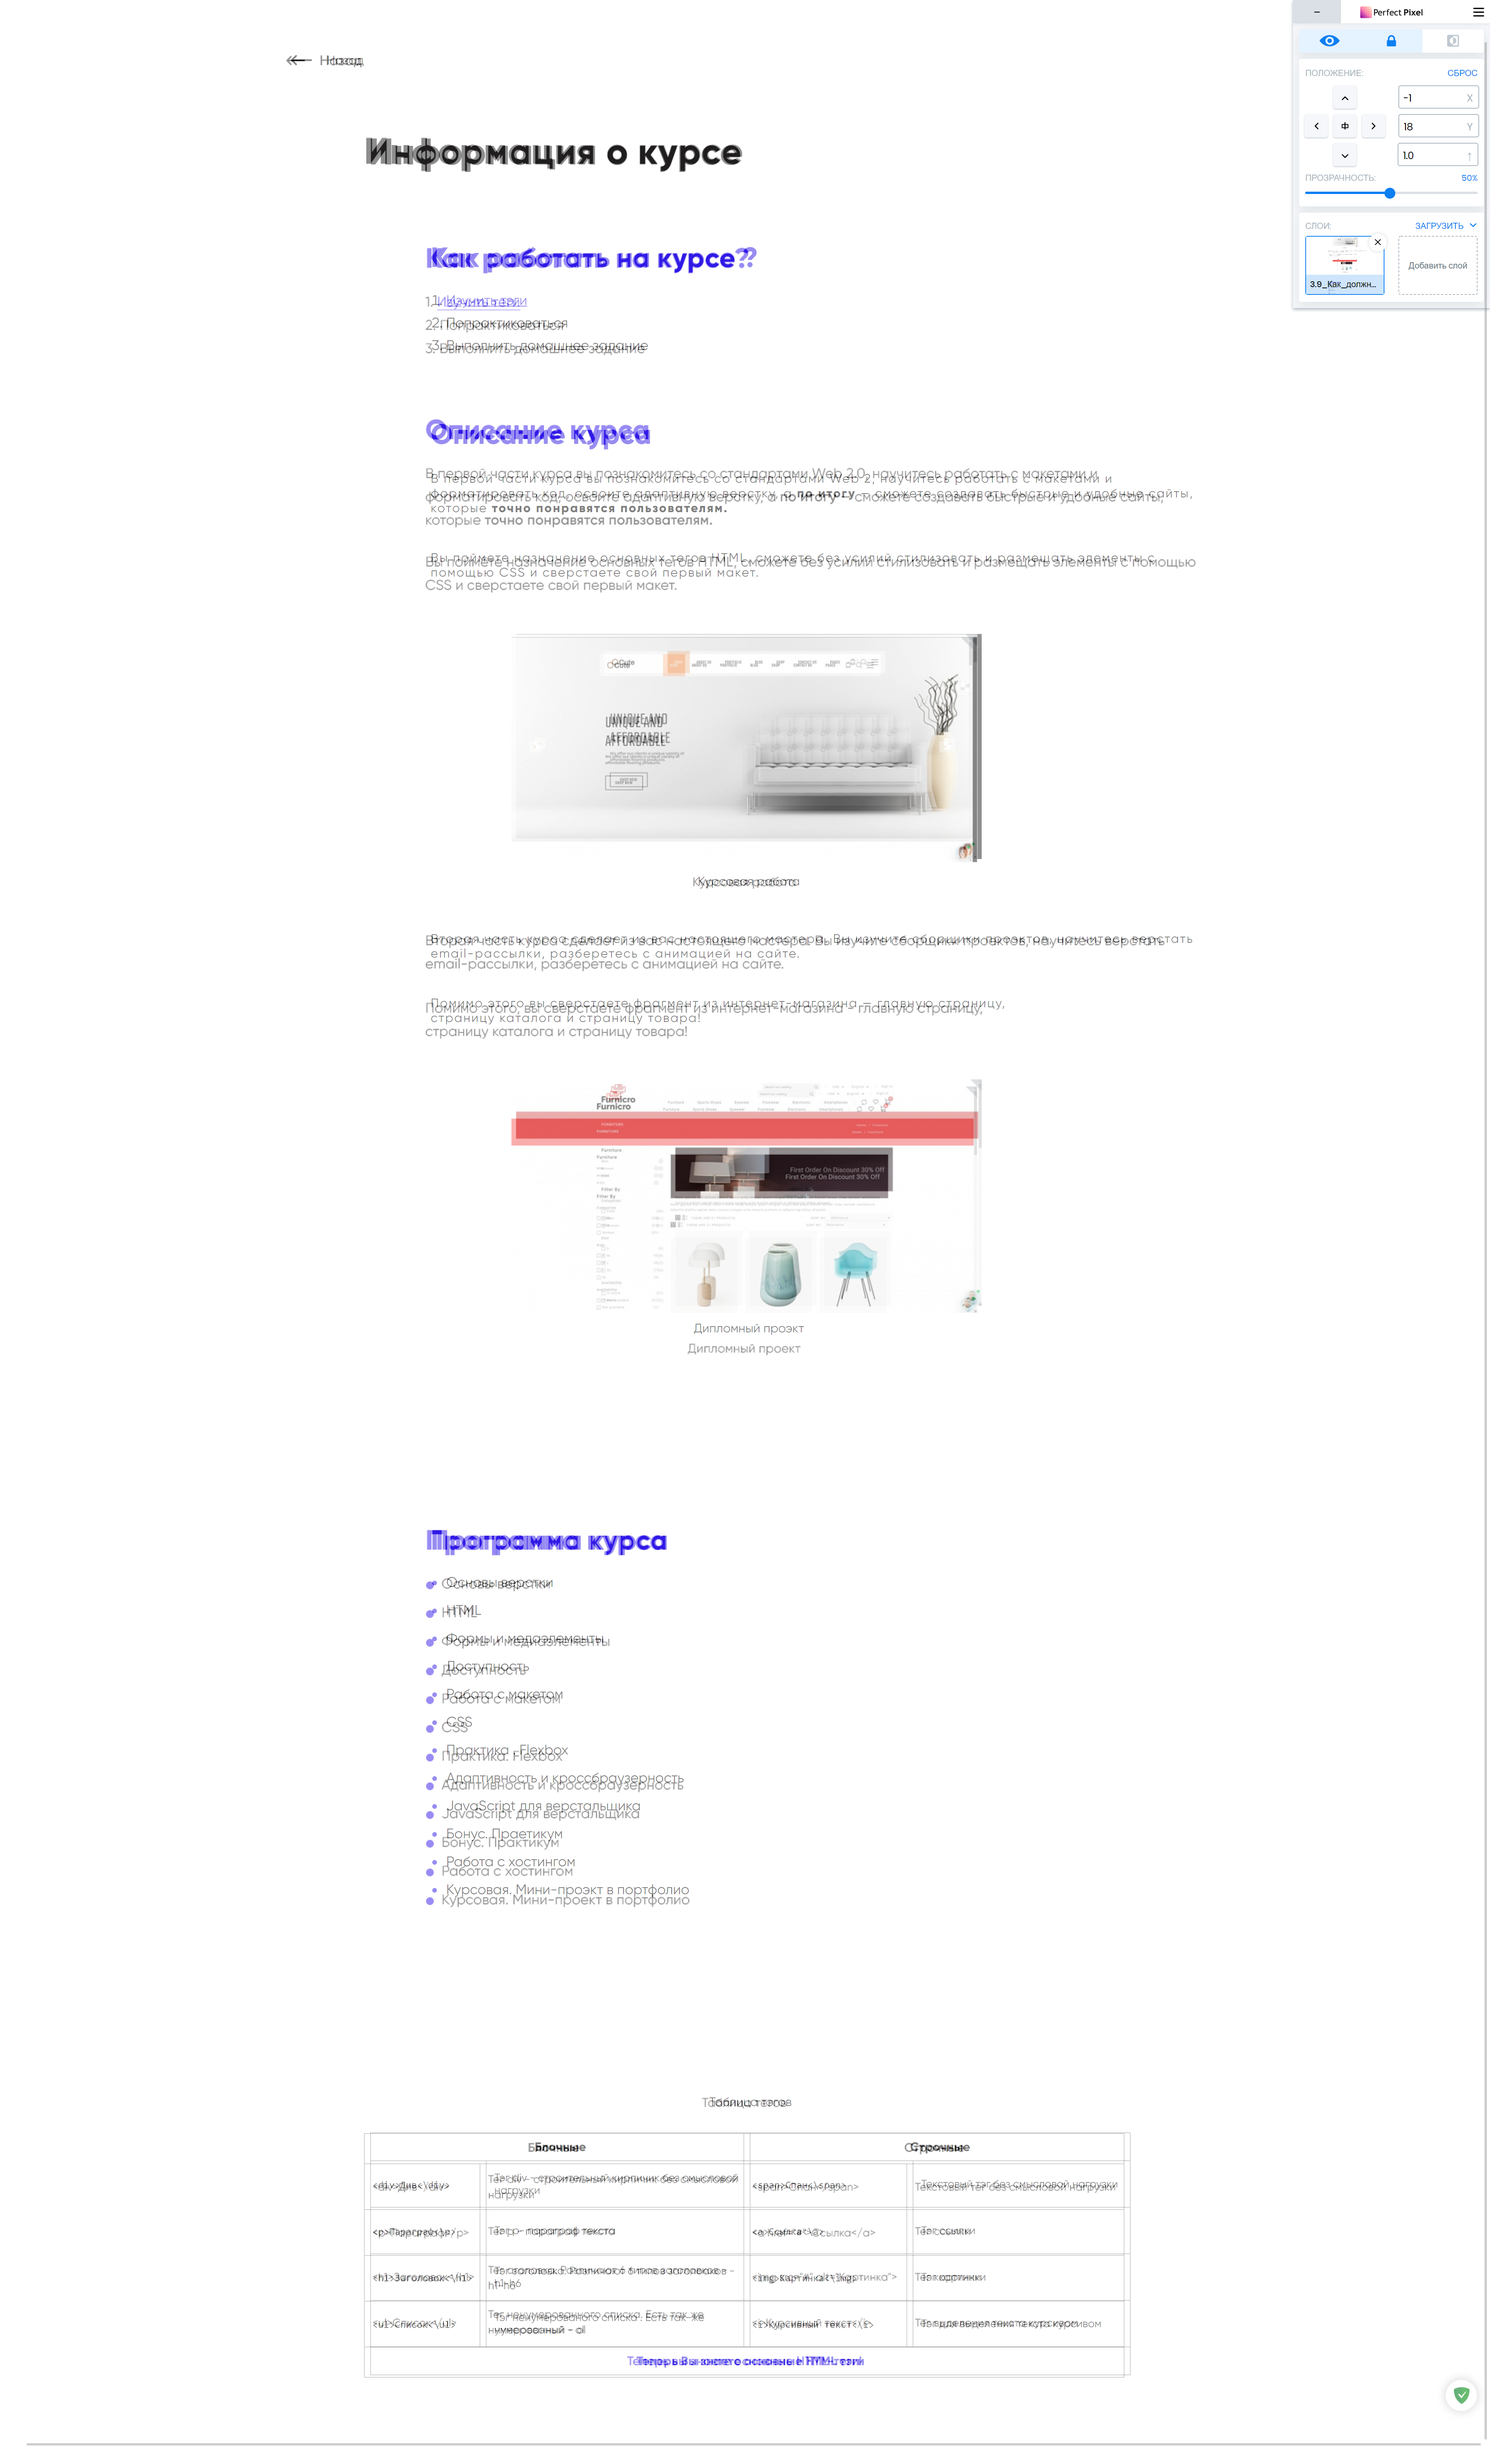
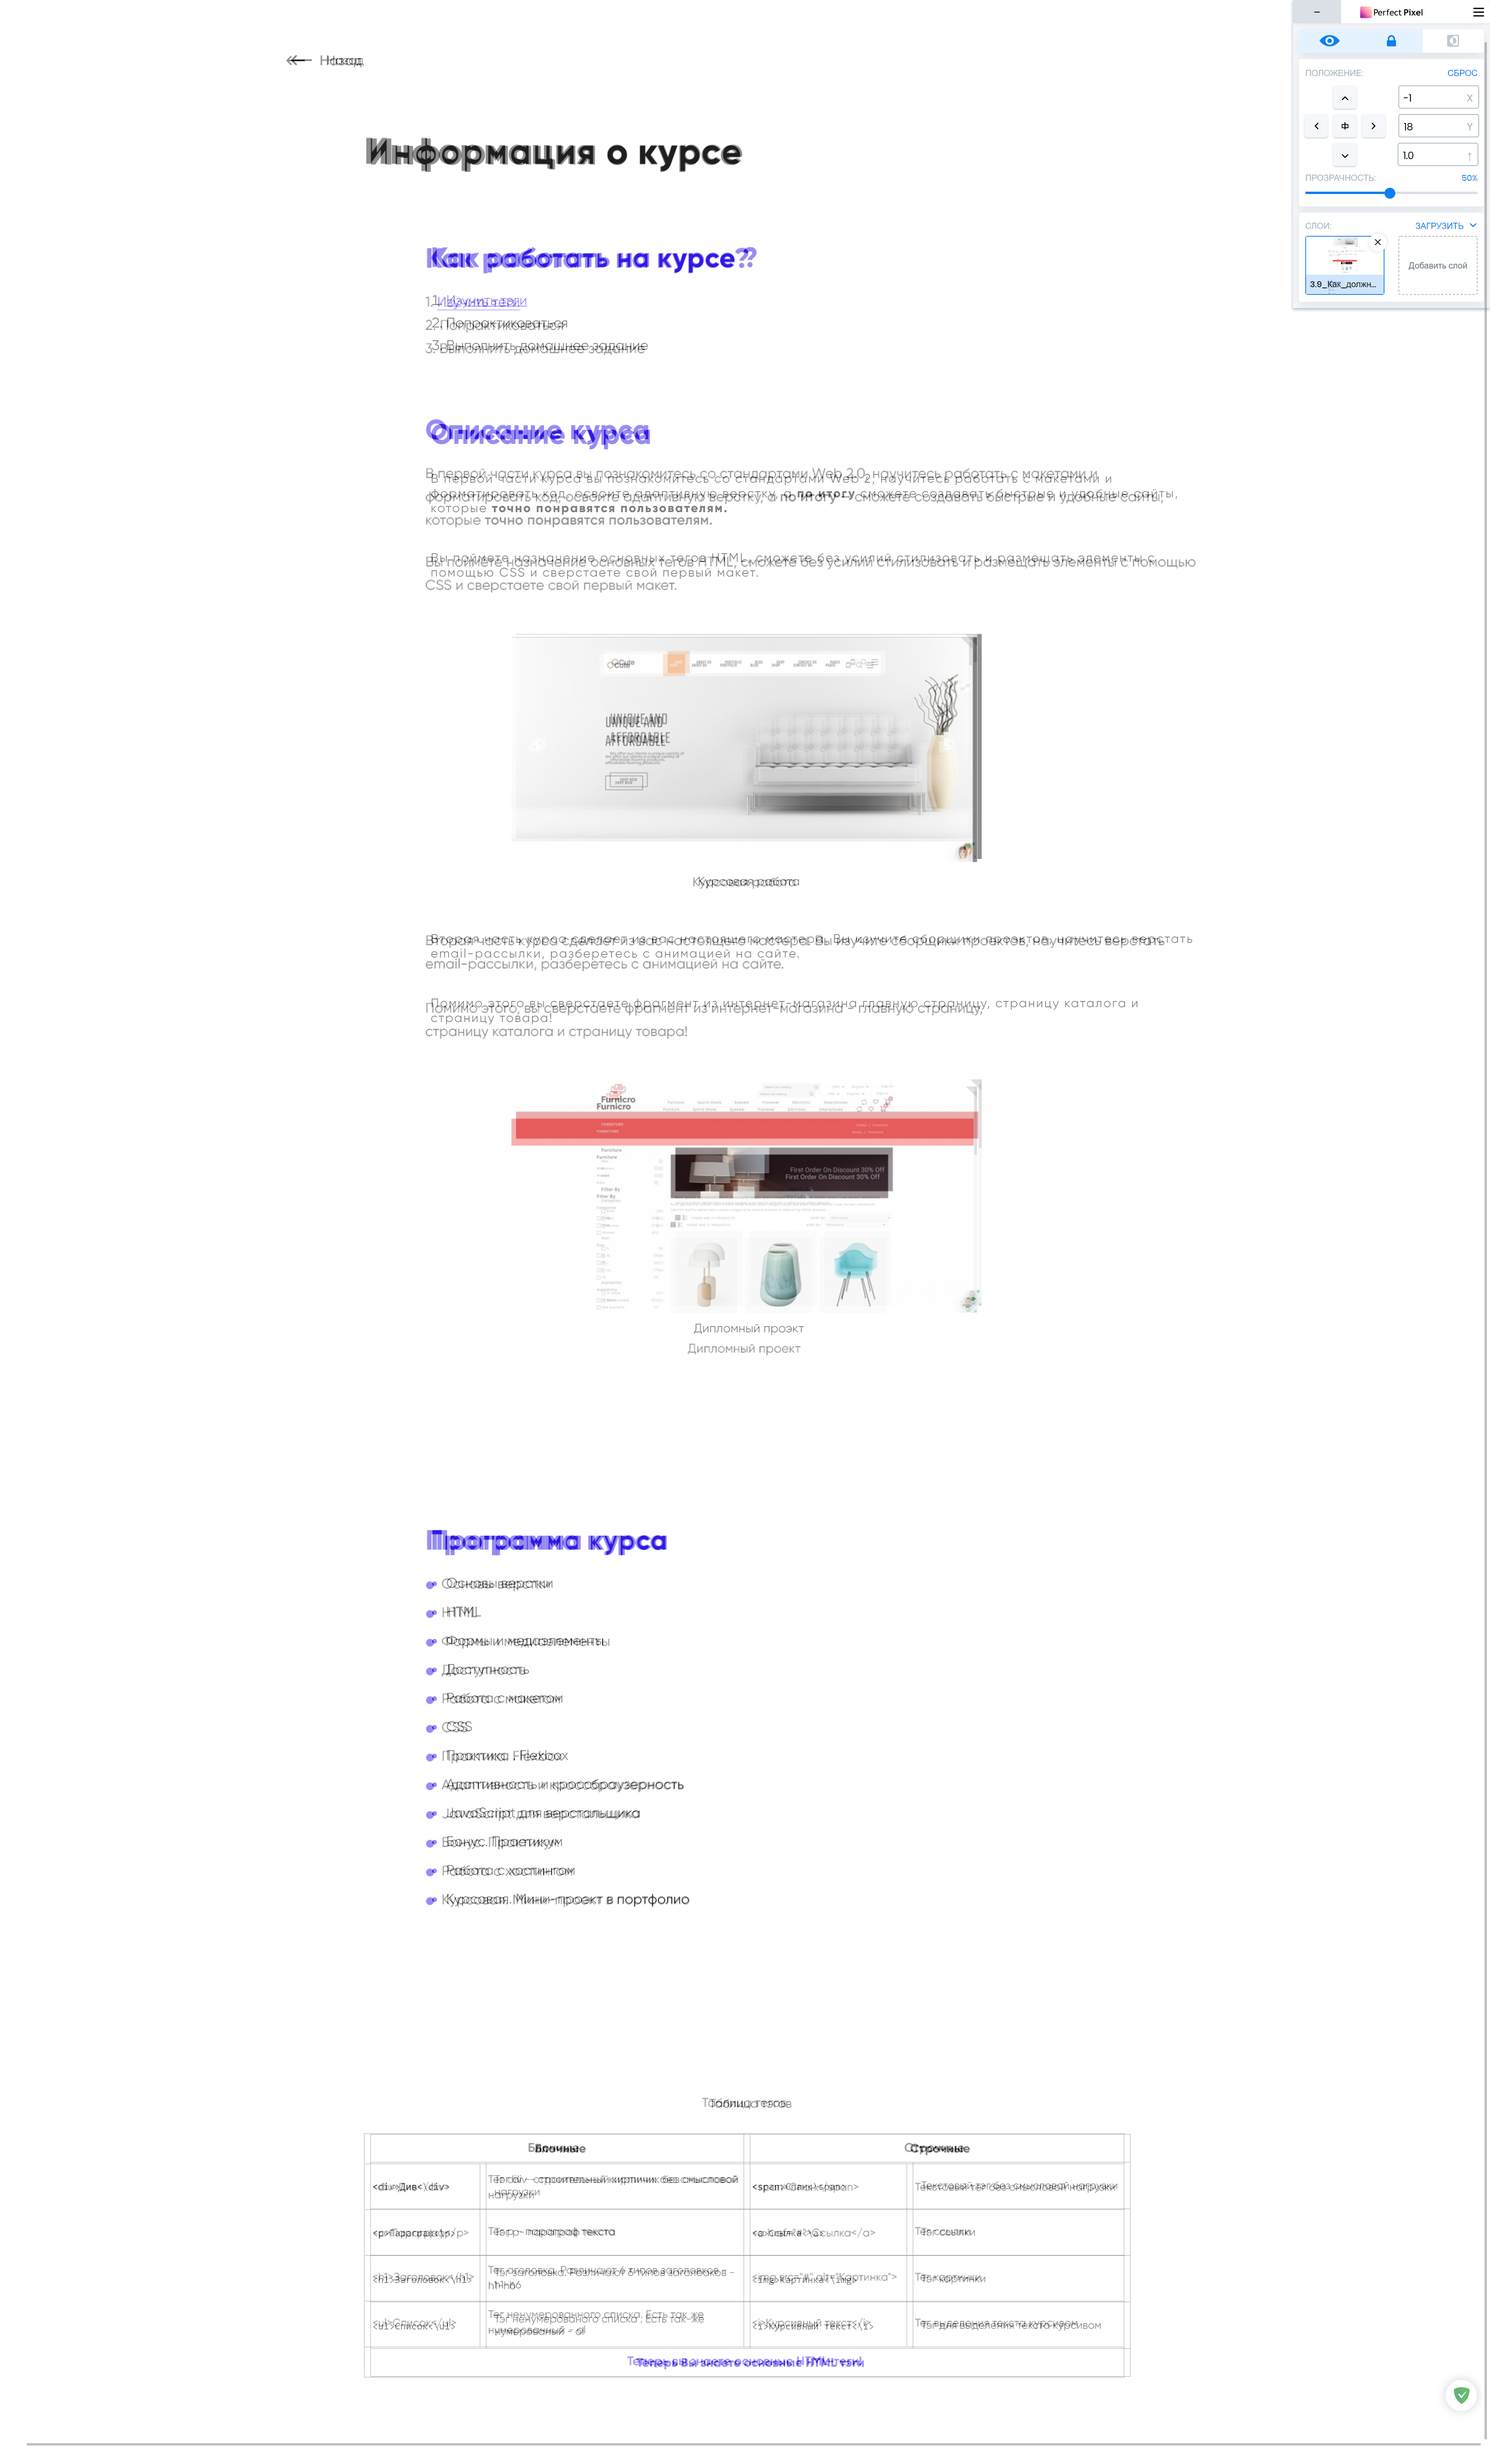
del nobr

diff --git a/2/program.html b/2/program.html
@@ -22,14 +22,14 @@
         <li class="info-list-li">Выполнить домашнее задание</li>
       </ol>
       <h2 class="other-headers color-skillbox">Описание курса</h2>
-      <p class="all-paragrafs">В первой части курса вы познакомитесь со стандартами Web 2, научитесь работать с макетами и форматировать код, освоите адаптивную верстку, а<b>по итогу</b> сможете создавать быстрые и;удобные сайты, которые <b>точно понравятся пользователям.</b></p>
+      <p class="all-paragrafs">В первой части курса вы познакомитесь со стандартами Web 2, научитесь работать с макетами и форматировать код, освоите адаптивную верстку, а <b>по итогу</b> сможете создавать быстрые и удобные сайты, которые <b>точно понравятся пользователям.</b></p>
       <p class="all-paragrafs"> Вы поймете назначение  основных тегов HTML, сможете без усилий стилизовать и размещать элементы с помощью CSS и сверстаете свой первый макет.</p>
       <figure class="figure-container">
         <img class="all-images" src="images/2.7_site1.jpeg" alt="Курсовая работа">
         <figcaption class="figure-caption">Курсовая работа</figcaption>
       </figure>
-      <p class="all-paragrafs">Вторая часть курса сделает из вас настоящего мастера. Вы изучите сборщики проэктов, научитесь верстать <nobr>email-рассылки</nobr>, разберетесь с анимацией на сайте.</p>
-      <p class="all-paragrafs">Помимо этого вы сверстаете фрагмент из <nobr>интернет-магазина</nobr> главную страницу, страницу каталога и страницу товара! </p>
+      <p class="all-paragrafs">Вторая часть курса сделает из вас настоящего мастера. Вы изучите сборщики проэктов, научитесь верстать email-рассылки, разберетесь с анимацией на сайте.</p>
+      <p class="all-paragrafs">Помимо этого вы сверстаете фрагмент из интернет-магазина главную страницу, страницу каталога и страницу товара! </p>
       <figure class="figure-container">
         <img class="all-images" src="images/2.7_site2.jpeg" alt="Дипломный проэкт">
         <figcaption class="figure-caption">Дипломный проэкт</figcaption>
